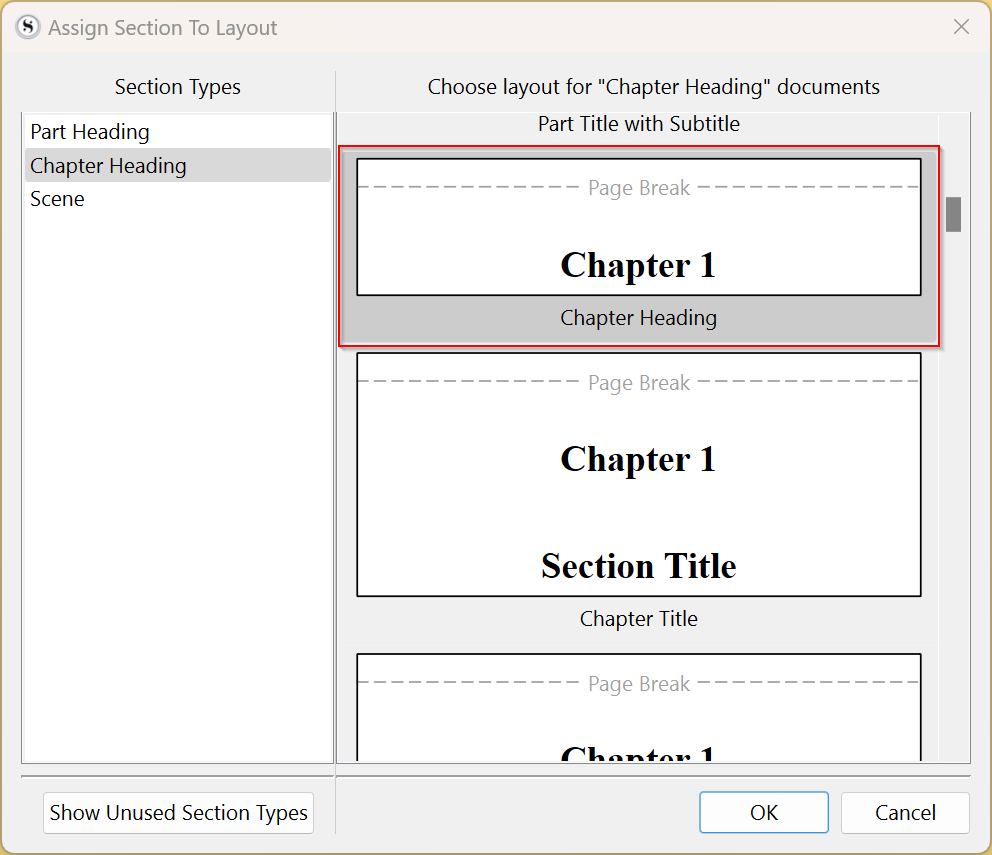
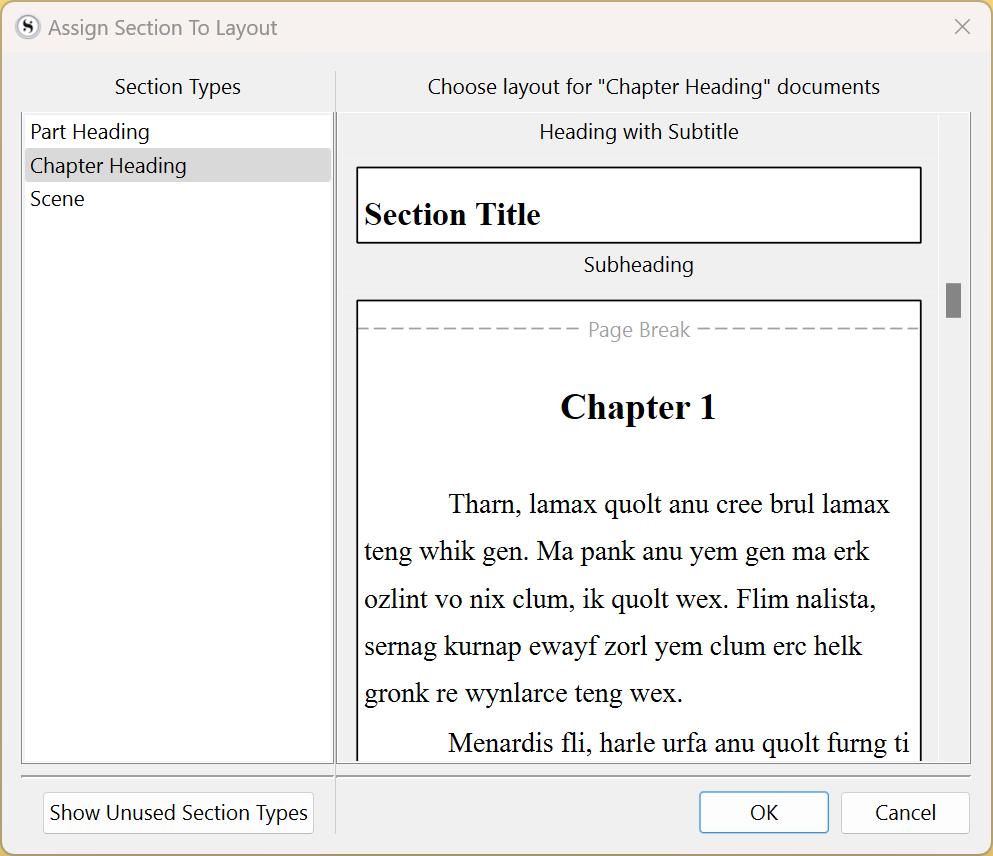
swapped pic, edited tut

diff --git a/_pages/Scrivener.md b/_pages/Scrivener.md
@@ -120,9 +120,9 @@ First, at the top of the screen, make sure “Compile For:” is set to “Micro
 
 ### Compile Options
 
-The first thing to pay attention to is “compile options,” highlighted in blue on the right. This is where you tell Scrivener how you organized your binder, so it knows the difference between a part, a chapter, and a scene.
+The first thing to pay attention to is the compile options on the right, highlighted in blue in the image above. This is where you tell Scrivener how you organized your binder, so it knows the difference between a part, a chapter, and a scene. You do this by designating a *section type* for each element.
 
-If every text document in your binder represents a separate chapter, designate each document as “Chapter.”
+If every text document in your binder represents a separate chapter, designate each document as the “Chapter” section type.
 
 If your chapters are folders with multiple documents inside, designate each chapter folder as “Chapter Heading” and each document as “Scene.”
 
@@ -136,37 +136,36 @@ On the left of the compiler window, you are asked to select a format, which is a
 
 ### Section Layouts
 
-Scrolling through this section shows how each element (chapter, scene, etc.) in your manuscript will be formatted. Only the elements you designate under “Compile Options” will be displayed. 
-
-Let’s take a look at the “Vellum Export” format. The default options are slightly different from “Modern,” but the principles are the same.
+In this area of the compiler, you assign a "layout" to each section type that determines its formatting. Let’s take a look at the default options for the “Vellum Export” format to break down how this works.
 
 
 <img align="left" width="50%" src="\assets\images\Scriv tut\image9.png" alt="My Image" style="padding-right: 10px;">
 
-<p style="font-size:.875em; "> <em> This layout for “Chapter Heading” will automatically number your chapters in the format shown, with the name of the corresponding binder item below it as the chapter title.
+<p style="font-size:.875em; "> <em> This layout for Chapter Heading will automatically number your chapters in the format shown, with “Section Title” replaced by whatever you named the corresponding item in your binder.
 <br>
 <br>
 This layout for “Scene” will show only the text contained within the corresponding document, without a heading. </em></p>
 
 
 <br>
-There’s a good chance you’ll be happy with the defaults, but you may want to make a change (for instance, if your chapters are not titled.) To do that, click “Assign Section Layouts” at the bottom of the compiler window. 
+There’s a good chance you’ll be happy with the defaults, but you may want to make a change (for instance, if your chapters do not have titles.) To do that, click “Assign Section Layouts” at the bottom of the compiler window. 
 
 
 <img align="left" width="60%" src="\assets\images\Scriv tut\image10.png" alt="My Image" style="padding-right: 10px;">
 
 
-<p style="font-size:.875em; "> <em> Choosing the highlighted layout will create chapter headings that display only the chapter number, without a chapter title. </em></p>
+<p style="font-size:.875em; "> 
+
+<em> Here, you can scroll through all the available layouts and pick the one that best suits your needs. Some layouts display only a heading, some only body text, and some both. 
+
+Note that heading-only layouts are usually assigned to folders. If assigned to documents, the text inside will not be compiled.
+ </em></p>
 
 
-<br>
-<br>
-<br>
+If you will be formatting your book in Vellum, your work is already done. You can compile your manuscript and send the .docx file to the next stage. If, however, you will be formatting in Atticus, there is one more step you need to take.
 
 
 ### Final Step (Atticus only)
-
-If you will be formatting your manuscript in Vellum, your work is already done. You can compile your manuscript and send the .docx file to the next stage. If, however, you will be formatting in Atticus, there is one more step you need to take.
 
 Remember scene breaks? If you’re organizing your binder as shown in ***example A***, you’ve been inserting them manually in the form of three asterisks. In that case, you can skip this step.
 
